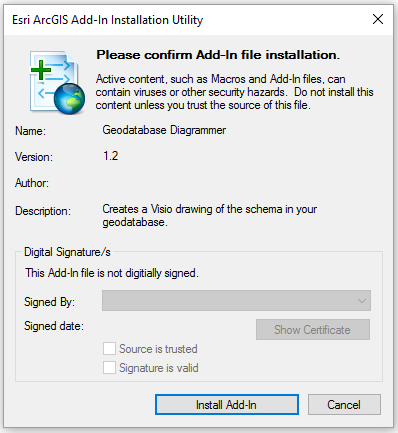
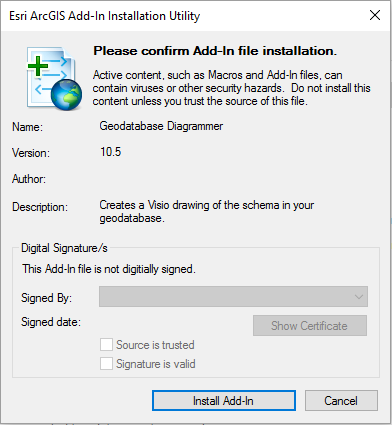
Update readme

diff --git a/README.md b/README.md
@@ -8,7 +8,7 @@ I only have recompiled for ArcGIS 10.4.1 and Visio 2016
 
 #### System Requirements
 
-- ArcGIS Desktop version 10.4.1
+- ArcGIS Desktop version 10.5
 - Microsoft Visio 2016
 - .NET 4.5 Framework
 
